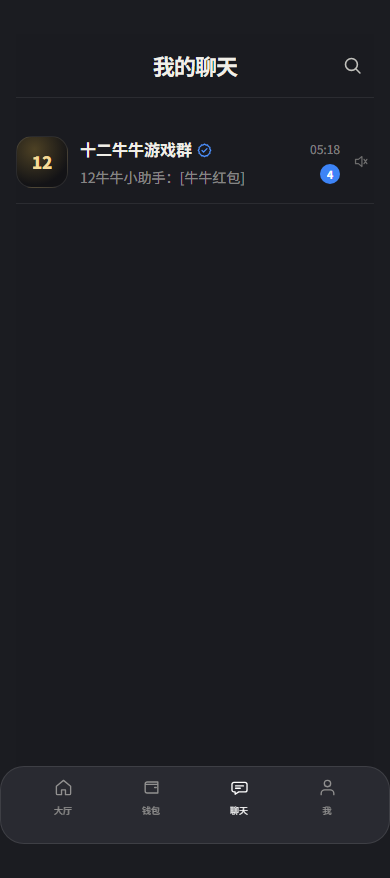
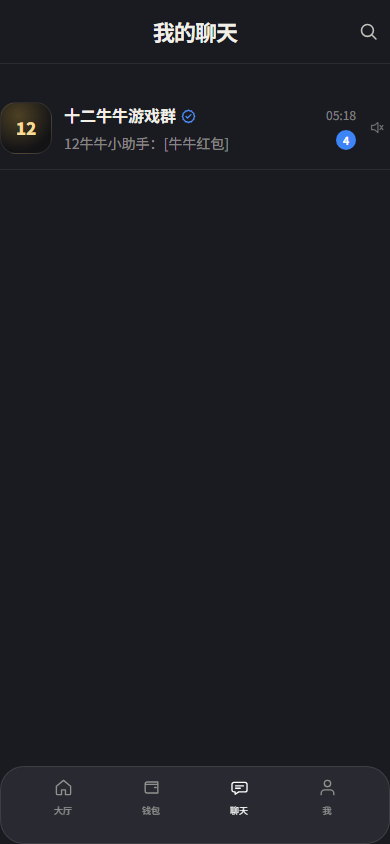
fix: repair profile rows and chat room back navigation

diff --git a/apps/miniapp/src/App.tsx b/apps/miniapp/src/App.tsx
@@ -38,7 +38,7 @@ function BackButton({ onClick }: { onClick: () => void }) { if (getTelegramWebAp
 function toBase64(buffer: ArrayBuffer): string { let binary = ""; for (const byte of new Uint8Array(buffer)) binary += String.fromCharCode(byte); return btoa(binary); }
 function readTelegramLanguageCode(initData: string): string | undefined { try { const value = new URLSearchParams(initData).get("user"); if (!value) return undefined; return (JSON.parse(value) as { language_code?: string }).language_code; } catch { return undefined; } }
 function initialLocale(): Locale { if (typeof window === "undefined") return "zh-CN"; return resolveLocale(window.localStorage.getItem(localeStorageKey), readTelegramLanguageCode(readTelegramInitData()), "zh-CN"); }
-function screenFromPath(pathname: string): Screen { if (["/wallet", "/wallet/ledger", "/profile/funds"].includes(pathname)) return "wallet"; if (["/chat", "/chat/rooms", "/chat/support"].includes(pathname)) return "chat"; if (pathname === "/profile/settings") return "settings"; if (["/profile", "/profile/emotes", "/profile/security"].includes(pathname)) return "profile"; if (["/rules", "/games/12/rules"].includes(pathname)) return "rules"; if (pathname.startsWith("/chat/room") || pathname.startsWith("/game/") || pathname.startsWith("/games/12") || pathname.startsWith("/rooms/") || pathname.startsWith("/rounds/")) return "chat-room"; if (pathname === "/leaderboard") return "leaderboard"; if (["/rewards", "/daily-rewards"].includes(pathname)) return "rewards"; if (pathname === "/missions") return "missions"; if (["/referral", "/profile/referral"].includes(pathname)) return "referral"; return "hall"; }
+function screenFromPath(pathname: string): Screen { if (["/wallet", "/wallet/ledger", "/profile/funds"].includes(pathname)) return "wallet"; if (["/chat", "/chat/rooms", "/chat/support"].includes(pathname)) return "chat"; if (pathname === "/profile/settings" || pathname === "/profile/security") return "settings"; if (["/profile", "/profile/emotes"].includes(pathname)) return "profile"; if (["/rules", "/games/12/rules"].includes(pathname)) return "rules"; if (pathname.startsWith("/chat/room") || pathname.startsWith("/game/") || pathname.startsWith("/games/12") || pathname.startsWith("/rooms/") || pathname.startsWith("/rounds/")) return "chat-room"; if (pathname === "/leaderboard") return "leaderboard"; if (["/rewards", "/daily-rewards"].includes(pathname)) return "rewards"; if (pathname === "/missions") return "missions"; if (["/referral", "/profile/referral"].includes(pathname)) return "referral"; return "hall"; }
 function pathForScreen(screen: Screen): string { return screen === "hall" ? "/hall" : screen === "settings" ? "/profile/settings" : screen === "chat-room" ? "/chat/room-12" : `/${screen}`; }
 
 export default function App() {
@@ -70,7 +70,7 @@ export default function App() {
   const claimMission = (missionId: string) => { const mission = state.missions.find((item) => item.id === missionId); if (!mission || mission.progress < mission.target) return notify("完成任务后才能领取", "error"); void writeOrFallback(`/api/missions/${missionId}/claim`, `ui-mission-${missionId}`, {}, "奖励领取失败，请重试").then(async (response) => { if (response?.ok) { const payload = await response.json() as { result?: { status?: string } }; if (payload.result?.status === "ALREADY_CLAIMED") return notify("该奖励已经领取", "info"); } setState((current) => ({ ...current, user: { ...current.user, available: current.user.available + mission.reward }, ledger: [{ id: `J-${missionId}`, reason: `${mission.title}奖励`, change: mission.reward, balanceAfter: current.user.available + mission.reward, createdAt: "刚刚" }, ...current.ledger] })); notify("奖励已进入内部积分账户", "success"); }).catch((cause: unknown) => notify(cause instanceof Error ? cause.message : "奖励领取失败，请重试", "error")); };
   if (!onboarded) return <Setup locale={locale} step={setupStep} setStep={setSetupStep} referral={referralInput} setReferral={setReferralInput} sheet={referralSheet} setSheet={setReferralSheet} pin={pin} setPin={setPin} confirmPin={confirmPin} setConfirmPin={setConfirmPin} error={error} setError={setError} bootStatus={bootStatus} secureStorageFallback={secureStorageFallback} bindDevice={bindDevice} bindReferrer={bindReferrer} finish={finishSetup} />;
   const onChatCommand = (command: string, result: unknown) => { const payload = result as { state?: DemoState["round"]["state"]; roundId?: string; banker?: string; amount?: number; currentHighest?: number; bankPool?: number; packet?: PacketSummary; value?: number } | undefined; if (payload?.state) setState((current) => ({ ...current, round: { ...current.round, id: payload.roundId ?? current.round.id, state: payload.state!, banker: payload.banker ?? current.round.banker, bankPool: typeof payload.bankPool === "number" ? payload.bankPool : current.round.bankPool, endsAt: payload.state === "WAITING_BANKER_CONFIRM" ? "01:00" : payload.state === "CLAIMING" ? "00:45" : payload.state === "EVALUATING" ? "完成" : payload.state === "BETTING" ? "00:30" : payload.state === "BANKER_BIDDING" ? "00:30" : current.round.endsAt } })); if (command === "BID" && typeof payload?.amount === "number") notify(`${t("game.banker.started")} · ${payload.amount} PT${typeof payload.currentHighest === "number" ? ` · ${payload.amount >= payload.currentHighest ? "已成为当前庄家" : `当前最高 ${payload.currentHighest} PT`}` : ""}`, "success"); if (command === "CLOSE_BANKER_BIDDING") notify("抢庄结束 · 已进入下注阶段", "success"); if (command === "BET" && typeof payload?.amount === "number") notify(`${t("game.betting.opened", { durationSeconds: 30, minBet: 2, maxBet: 17 })} · ${payload.amount} PT`, "success"); if (command === "CLOSE_BETTING") notify(t("game.betting.closed"), "success"); if (command === "CONFIRM_PACKET") notify(t("game.packet.ready"), "success"); if (command === "CLAIM_PACKET" && typeof payload?.value === "number") notify(t("game.packet.claimed", { amount: payload.value }), "success"); if (command === "CONTINUE") notify("新一局已开始 · 等待抢庄", "success"); if (command === "END_TABLE") notify("本桌已结束", "info"); };
-  const content = screen === "hall" ? <Hall state={state} move={move} locale={locale} /> : screen === "wallet" ? <Wallet state={state} locale={locale} /> : screen === "chat" ? <ChatInboxScreen state={state} move={() => move("chat-room")} locale={locale} /> : screen === "chat-room" ? <ChatRoomScreen state={state} apiUrl={apiUrl} sessionToken={demoSessionToken} locale={locale} onCommand={onChatCommand} formatMessage={(message) => localizedRoomMessage(message, t)} /> : screen === "profile" ? <Profile state={state} move={move} locale={locale} openVerification={() => setVerificationOpen(true)} /> : screen === "settings" ? <Settings locale={locale} setLocale={setLocale} /> : screen === "rules" ? <Rules move={move} /> : screen === "missions" ? <Missions state={state} claimMission={claimMission} /> : screen === "leaderboard" ? <Leaderboard state={state} locale={locale} /> : screen === "rewards" ? <Rewards state={state} locale={locale} claimMission={claimMission} /> : screen === "referral" ? <Referral state={state} notify={notify} bindReferrer={bindReferrer} /> : <Hall state={state} move={move} locale={locale} />;
+  const content = screen === "hall" ? <Hall state={state} move={move} locale={locale} /> : screen === "wallet" ? <Wallet state={state} locale={locale} /> : screen === "chat" ? <ChatInboxScreen state={state} move={() => move("chat-room")} locale={locale} /> : screen === "chat-room" ? <ChatRoomScreen state={state} apiUrl={apiUrl} sessionToken={demoSessionToken} locale={locale} onBack={() => move("chat")} onCommand={onChatCommand} formatMessage={(message) => localizedRoomMessage(message, t)} /> : screen === "profile" ? <Profile state={state} move={move} locale={locale} openVerification={() => setVerificationOpen(true)} /> : screen === "settings" ? <Settings locale={locale} setLocale={setLocale} /> : screen === "rules" ? <Rules move={move} /> : screen === "missions" ? <Missions state={state} claimMission={claimMission} /> : screen === "leaderboard" ? <Leaderboard state={state} locale={locale} /> : screen === "rewards" ? <Rewards state={state} locale={locale} claimMission={claimMission} /> : screen === "referral" ? <Referral state={state} notify={notify} bindReferrer={bindReferrer} /> : <Hall state={state} move={move} locale={locale} />;
   const pageTitle = screen === "hall" ? t("hall.title") : screen === "wallet" ? t("wallet.title") : screen === "chat-room" ? t("chat.roomLabel") : screen === "chat" ? t("chat.title") : screen === "profile" ? t("profile.title") : screen === "settings" ? t("settings.title") : screen === "leaderboard" ? t("leaderboard.points") : screen === "rewards" ? t("rewards.title") : branding.tagline;
   const showAppHeader = screen !== "chat" && screen !== "chat-room";
   const chatSurface = screen === "chat" || screen === "chat-room";
@@ -119,7 +119,7 @@ function localizedRoomMessage(message: ChatMessage, t: ReturnType<typeof createT
 }
 function stringValueFrom(payload: Record<string, unknown>, key: string, fallback: string): string { return typeof payload[key] === "string" && payload[key] ? payload[key] as string : fallback; }
 function handLabel(row: Record<string, unknown>): string { const hand = row.hand; if (hand && typeof hand === "object") { const value = hand as Record<string, unknown>; const type = typeof value.type === "string" ? value.type : "hand"; const points = typeof value.points === "number" ? ` ${value.points}` : ""; return `${type}${points}`; } return "hand"; }
-function Profile({ state, move, locale, openVerification }: { state: DemoState; move: (screen: Screen) => void; locale: Locale; openVerification: () => void }) { const t = createTranslator(locale); const entries: Array<[string, string, Screen]> = [["ACCOUNT", t("profile.account"), "profile"], ["SECURITY", t("profile.security"), "rules"], ["REFERRAL", t("profile.referralNetwork"), "referral"], ["LEADERBOARD", t("leaderboard.points"), "leaderboard"], ["REWARDS", t("rewards.title"), "rewards"], ["LEDGER", t("profile.ledger"), "wallet"], ["PREFERENCES", t("profile.preferences"), "settings"], ["SUPPORT", t("profile.support"), "rules"]]; return <section className="screen profile-screen"><section className="profile-hero profile-card"><span className="profile-avatar">AT</span><div><span className="eyebrow">TELEGRAM PROFILE / CLEAR</span><h1>{state.user.displayName}</h1><p>{t("profile.uid")} {state.user.id}</p></div></section><button className="verification-entry" onClick={openVerification}><Icon name="shield" /><span><strong>{t("profile.verification")}</strong><small>{t("profile.verificationBody")}</small></span><Icon name="arrow" /></button><section className="profile-metrics"><span><b>01</b>{t("profile.joinedDays")}</span><span><b>{state.leaderboard?.[0]?.points ?? 0}</b>{t("profile.rankPoints")}</span><span><b>{state.referrals.direct}</b>{t("profile.direct")}</span></section><div className="settings-list">{entries.map(([label, description, target]) => <button key={label} onClick={() => move(target)}><span className="eyebrow">{label}</span><strong>{description}</strong><Icon name="arrow" /></button>)}</div><div className="profile-footer"><span>VERSION {branding.version}</span><span>BUILD {buildCommit}</span><span>{t("profile.noCash")}</span></div></section>; }
+function Profile({ state, move, locale, openVerification }: { state: DemoState; move: (screen: Screen) => void; locale: Locale; openVerification: () => void }) { const t = createTranslator(locale); const entries: Array<[string, string, () => void]> = [["ACCOUNT", t("profile.account"), openVerification], ["SECURITY", t("profile.security"), () => move("settings")], ["REFERRAL", t("profile.referralNetwork"), () => move("referral")], ["LEADERBOARD", t("leaderboard.points"), () => move("leaderboard")], ["REWARDS", t("rewards.title"), () => move("rewards")], ["LEDGER", t("profile.ledger"), () => move("wallet")], ["PREFERENCES", t("profile.preferences"), () => move("settings")], ["SUPPORT", t("profile.support"), () => move("rules")]]; return <section className="screen profile-screen"><section className="profile-hero profile-card"><span className="profile-avatar">AT</span><div><span className="eyebrow">TELEGRAM PROFILE / CLEAR</span><h1>{state.user.displayName}</h1><p>{t("profile.uid")} {state.user.id}</p></div></section><button className="verification-entry" onClick={openVerification}><Icon name="shield" /><span><strong>{t("profile.verification")}</strong><small>{t("profile.verificationBody")}</small></span><Icon name="arrow" /></button><section className="profile-metrics"><span><b>01</b>{t("profile.joinedDays")}</span><span><b>{state.leaderboard?.[0]?.points ?? 0}</b>{t("profile.rankPoints")}</span><span><b>{state.referrals.direct}</b>{t("profile.direct")}</span></section><div className="settings-list">{entries.map(([label, description, action]) => <button key={label} onClick={action}><span className="eyebrow">{label}</span><strong title={description}>{description}</strong><Icon name="arrow" /></button>)}</div><div className="profile-footer"><span>VERSION {branding.version}</span><span>BUILD {buildCommit}</span><span>{t("profile.noCash")}</span></div></section>; }
 function VerificationGate({ verification, close, submit, locale }: { verification: Verification; close: () => void; submit: (legalName: string, tngAccountNo: string) => Promise<void>; locale: Locale }) { const t = createTranslator(locale); const [legalName, setLegalName] = useState(""); const [tngAccountNo, setTngAccountNo] = useState(""); const [saving, setSaving] = useState(false); const [error, setError] = useState(""); const pending = verification.status === "PENDING"; const rejected = verification.status === "REJECTED"; const suspended = verification.status === "SUSPENDED"; const needsMoreInfo = verification.status === "NEEDS_MORE_INFO"; return <div className="verification-backdrop"><section className="verification-modal" role="dialog" aria-modal="true" aria-labelledby="verification-title">{pending ? <><div className="verification-icon"><Icon name="clock" /></div><h2 id="verification-title">{t("verification.pendingTitle")}</h2><p>{t("verification.pendingDescription")}</p>{verification.tngAccountLast4 && <small className="verification-masked">TNG eWallet {verification.tngAccountLast4}</small>}<button className="mechanism-cta verification-close" onClick={close}>{t("verification.ok")}</button></> : suspended ? <><div className="verification-icon"><Icon name="shield" /></div><h2 id="verification-title">{t("verification.suspendedTitle")}</h2><p>{t("verification.suspendedDescription")}</p><button className="mechanism-cta verification-close" onClick={close}>{t("verification.ok")}</button></> : <><span className="eyebrow">ACCOUNT VERIFICATION</span><h2 id="verification-title">{t("verification.title")}</h2><p>{rejected ? verification.rejectionReason ?? t("verification.rejectedDescription") : needsMoreInfo ? verification.rejectionReason ?? t("verification.moreInfoDescription") : t("verification.formDescription")}</p><label className="field-label" htmlFor="legal-name">{t("verification.legalName")}</label><input id="legal-name" className="mechanism-input" value={legalName} onChange={(event) => { setLegalName(event.target.value); setError(""); }} autoComplete="name" placeholder={t("verification.legalNamePlaceholder")} /><label className="field-label" htmlFor="tng-account">{t("verification.tngAccount")}</label><input id="tng-account" className="mechanism-input" value={tngAccountNo} onChange={(event) => { setTngAccountNo(event.target.value.replace(/[^\d\s-]/g, "")); setError(""); }} inputMode="numeric" autoComplete="off" placeholder={t("verification.tngPlaceholder")} />{error && <p className="error-line">{error}</p>}<div className="verification-actions"><button className="ghost-button" disabled={saving} onClick={close}>{t("verification.cancel")}</button><button className="mechanism-cta" disabled={saving || !legalName.trim() || !tngAccountNo.trim()} onClick={() => { setSaving(true); void submit(legalName, tngAccountNo).catch((cause: unknown) => setError(cause instanceof Error ? cause.message : "Verification failed")).finally(() => setSaving(false)); }}>{saving ? t("verification.submitting") : t("verification.submit")}</button></div><small className="verification-privacy">{t("verification.privacy")}</small></>}</section></div>; }
 function Missions({ state, claimMission }: { state: DemoState; claimMission: (missionId: string) => void }) { return <section className="screen missions-screen"><section className="section-title-block"><span className="eyebrow">PROGRESS / DEMO CREDIT</span><h1>Keep the<br /><em>mechanism moving.</em></h1><p>任务只记录模拟积分，不改变现金价值。</p></section><div className="mission-table">{state.missions.map((mission) => <article key={mission.id}><span className="mission-no">{mission.id.slice(0, 2).toUpperCase()}</span><div><strong>{mission.title}</strong><small>{mission.progress} / {mission.target} complete · +{mission.reward} PT</small><div className="meter"><i style={{ width: `${(mission.progress / mission.target) * 100}%` }} /></div></div><button className="text-button" disabled={mission.progress < mission.target} onClick={() => claimMission(mission.id)}>{mission.progress >= mission.target ? "领取" : "—"}</button></article>)}</div><section className="rank-table"><div className="section-title-line"><span className="eyebrow">WEEKLY RANKING</span><span>DEMO POINTS</span></div>{state.leaderboard?.map((entry) => <div key={entry.userId}><b>0{entry.rank}</b><strong>{entry.displayName}</strong><span>{entry.points.toLocaleString()} PT</span></div>)}</section></section>; }
 

diff --git a/apps/miniapp/src/chat/ChatScreens.tsx b/apps/miniapp/src/chat/ChatScreens.tsx
@@ -176,7 +176,7 @@ function ChatComposer({ draft, setDraft, sending, connection, onSubmit, onEmoji,
   return <form className="chat-composer-v2" data-game-input="chat-text-only" onSubmit={onSubmit}><div className="chat-stage-status"><ConnectionStatus status={connection} /><span>{hint}</span></div><div className="chat-composer-row"><button type="button" className="chat-composer-icon" aria-label="表情" onClick={onEmoji}><ChatIcon name="smile" /></button><div className="chat-composer-field"><input data-chat-command-input="true" name="chatMessage" type="text" inputMode="text" enterKeyHint="send" autoComplete="off" value={draft} onChange={(event) => setDraft(event.target.value)} placeholder="发送消息…" aria-label="我的聊天" /><button type="submit" aria-label="发送" disabled={sending || !draft.trim()}><ChatIcon name="send" /></button></div><button type="button" className="chat-composer-icon" aria-label="添加附件" onClick={onPlus}><ChatIcon name="plus" /></button></div>{error && <p className="chat-composer-error" role="alert">{error}</p>}</form>;
 }
 
-export function ChatRoomScreen({ state, apiUrl, sessionToken, locale, onCommand, formatMessage }: { state: DemoState; apiUrl: string; sessionToken: string; locale: Locale; onCommand: (command: string, result: unknown) => void; formatMessage: (message: ChatMessage) => string }) {
+export function ChatRoomScreen({ state, apiUrl, sessionToken, locale, onBack, onCommand, formatMessage }: { state: DemoState; apiUrl: string; sessionToken: string; locale: Locale; onBack: () => void; onCommand: (command: string, result: unknown) => void; formatMessage: (message: ChatMessage) => string }) {
   const viewportRef = useRef<HTMLDivElement>(null);
   const fileRef = useRef<HTMLInputElement>(null);
   const firstLoadRef = useRef(true);
@@ -356,7 +356,7 @@ export function ChatRoomScreen({ state, apiUrl, sessionToken, locale, onCommand,
   };
 
   return <section className="chat-room-screen" data-chat-mode="text-only">
-    <header className="chat-room-header-v2"><span className="chat-room-header-side" /><div><h1>十二牛牛游戏群 <span className="chat-room-count">2</span> <span className="chat-verified" aria-label="已验证"><ChatIcon name="verified" /></span></h1></div><button type="button" className="chat-room-more" aria-label="更多" onClick={() => setActivityOpen(true)}><ChatIcon name="more" /></button></header>
+    <header className="chat-room-header-v2"><button type="button" className="chat-room-back chat-room-header-side" aria-label="返回聊天列表" onClick={onBack}><ChatIcon name="chevron" /></button><div><h1>十二牛牛游戏群 <span className="chat-room-count">2</span> <span className="chat-verified" aria-label="已验证"><ChatIcon name="verified" /></span></h1></div><button type="button" className="chat-room-more" aria-label="更多" onClick={() => setActivityOpen(true)}><ChatIcon name="more" /></button></header>
     <button className="chat-pinned-bar" type="button" onClick={() => setPinnedOpen(true)}><ChatIcon name="pin" /><span><strong>置顶消息（4）</strong><small>{previewText(pinnedMessages[0])}</small></span><ChatIcon name="chevron" /></button>
     <div className="chat-message-viewport" ref={viewportRef} onScroll={handleScroll}>
       <div className="chat-message-list-v2" style={{ height: `${rowVirtualizer.getTotalSize()}px` }}>

diff --git a/apps/miniapp/src/styles.css b/apps/miniapp/src/styles.css
@@ -126,7 +126,7 @@ body { overflow-x: hidden; background: #000; }
   border-bottom: 1px solid rgba(255,255,255,.08);
 }
 .chat-inbox-header h1 { font-size: 22px; font-weight: 700; letter-spacing: -.04em; }
-.chat-icon-button, .chat-room-more, .chat-composer-icon {
+.chat-icon-button, .chat-room-back, .chat-room-more, .chat-composer-icon {
   display: grid;
   place-items: center;
   border: 0;
@@ -134,7 +134,7 @@ body { overflow-x: hidden; background: #000; }
   background: transparent;
 }
 .chat-icon-button { position: absolute; right: 0; width: 44px; height: 44px; border-radius: 50%; }
-.chat-icon-button:hover, .chat-room-more:hover, .chat-composer-icon:hover { color: #fff; background: rgba(255,255,255,.07); }
+.chat-icon-button:hover, .chat-room-back:hover, .chat-room-more:hover, .chat-composer-icon:hover { color: #fff; background: rgba(255,255,255,.07); }
 .chat-search-field {
   display: flex;
   min-height: 44px;
@@ -214,6 +214,7 @@ body { overflow-x: hidden; background: #000; }
 .chat-room-header-v2 h1 { overflow: hidden; font-size: 18px; font-weight: 700; letter-spacing: -.03em; text-overflow: ellipsis; white-space: nowrap; }
 .chat-room-header-v2 small { display: block; margin-top: 4px; color: rgba(241,239,232,.45); font-size: 11px; }
 .chat-room-header-side { width: 44px; height: 44px; }
+.chat-room-back { justify-self: start; border-radius: 50%; }
 .chat-room-count { display: inline-flex; min-width: 22px; height: 22px; align-items: center; justify-content: center; padding: 0 5px; border-radius: 7px; color: #dfe7f6; background: #53677f; font-size: 13px; vertical-align: 1px; }
 .chat-room-more { width: 44px; height: 44px; border-radius: 50%; justify-self: end; }
 .chat-pinned-bar {
@@ -516,8 +517,10 @@ body { overflow-x: hidden; background: #000; }
 .profile-hero h1 { margin-top: 7px; font-size: 25px; letter-spacing: -.05em; }
 .profile-hero p { margin-top: 5px; color: var(--muted); font: 10px ui-monospace, monospace; }
 .settings-list { border-top: 1px solid var(--hairline); }
-.settings-list button { grid-template-columns: 1fr 18px; gap: 12px; min-height: 64px; padding: 11px 0; border-bottom-color: rgba(255,255,255,.08); }
-.settings-list button strong { margin-top: 4px; color: var(--paper); font-size: 14px; }
+.settings-list button { grid-template-columns: minmax(96px, auto) minmax(0, 1fr) 18px; gap: 12px; min-height: 64px; padding: 11px 0; border-bottom-color: rgba(255,255,255,.08); }
+.settings-list button > .eyebrow { min-width: 0; white-space: nowrap; }
+.settings-list button > strong { min-width: 0; margin-top: 0; overflow: hidden; color: var(--paper); font-size: 14px; line-height: 1.35; text-overflow: ellipsis; white-space: nowrap; }
+.settings-list button > .icon { justify-self: end; }
 .verification-modal .mechanism-input { border-radius: 12px; }
 .verification-close { width: 100%; }
 .bottom-nav { max-width: 448px; border: 1px solid rgba(255,255,255,.1); border-radius: 24px; background: rgba(43,44,50,.94); }

diff --git a/tests/e2e/miniapp.spec.ts b/tests/e2e/miniapp.spec.ts
@@ -33,7 +33,11 @@ test("player can open the internal chat and account surfaces", async ({ page }) 
   await expect(page.locator(".chat-stage-status")).toContainText("抢庄阶段");
   await expect(page.locator(".chat-composer-v2")).toBeVisible();
   await expect(page.locator(".bottom-nav")).toHaveCount(0);
-  await expect(page.getByRole("button", { name: "返回" })).toHaveCount(0);
+  await expect(page.getByRole("button", { name: "返回聊天列表" })).toBeVisible();
+  await page.getByRole("button", { name: "返回聊天列表" }).click();
+  await expect(page.locator("[data-chat-inbox]")).toBeVisible();
+  await page.getByRole("button", { name: /进入游戏聊天室：12牛牛/ }).click();
+  await expect(page.locator(".chat-room-screen")).toBeVisible();
   await expect(page.locator(".chat-command-row")).toHaveCount(0);
   await expect(page.getByRole("button", { name: "100", exact: true })).toHaveCount(0);
   for (const route of ["/game/12", "/rooms/room-12", "/rounds/R-0247"]) {
@@ -73,6 +77,17 @@ test("player can open the internal chat and account surfaces", async ({ page }) 
   await page.getByRole("button", { name: "我的账号" }).click();
   await page.getByRole("button", { name: "每日奖励" }).click();
   await expect(page.getByRole("heading", { name: "每日奖励" })).toBeVisible();
+  await page.getByRole("button", { name: "返回" }).click();
+  await page.getByRole("button", { name: "我的账号" }).click();
+  const profileRows = page.locator(".settings-list button");
+  await expect(profileRows).toHaveCount(8);
+  await expect(profileRows.first().locator("strong")).toHaveCSS("white-space", "nowrap");
+  await expect(profileRows.first().locator(".icon")).toBeVisible();
+  await profileRows.first().click();
+  await expect(page.getByRole("dialog")).toBeVisible();
+  await page.getByRole("button", { name: "取消" }).click();
+  await profileRows.nth(1).click();
+  await expect(page.getByRole("heading", { name: "设置" })).toBeVisible();
 });
 
 test("Telegram runtime cannot silently continue when the API is unavailable", async ({ page }) => {
